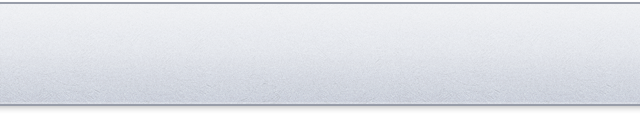
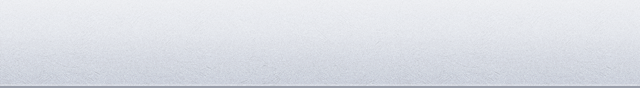
SHOT-2
* Fixed search bar art
* Fixed a bug when fetching the number of unviewed photos. Incorrect numbers would be seen while searching.

Changed region(s): [[0.0, 0.9091, 1.0, 1.0], [0.0, 0.0, 1.0, 0.0455]]

diff --git a/shotvibe/Controllers/SVAlbumListViewController.m b/shotvibe/Controllers/SVAlbumListViewController.m
@@ -374,6 +374,10 @@
     if (numberNew) {
         [cell.numberNotViewedIndicator setTitle:[NSString stringWithFormat:@"%@", numberNew] forState:UIControlStateNormal];
     }
+    else
+    {
+        [cell.numberNotViewedIndicator setTitle:[NSString stringWithFormat:@"%i", 0] forState:UIControlStateNormal];
+    }
     
     return cell;
 }
@@ -383,16 +387,18 @@
 {
     NSIndexPath *indexPath = [notification object];
     
-    Album *anAlbum = [self.fetchedResultsController objectAtIndexPath:indexPath];
-    
-    SVAlbumListViewCell *cell = (SVAlbumListViewCell *)[self.tableView cellForRowAtIndexPath:indexPath];
-    
-    NSInteger numberViewed = [SVBusinessDelegate numberOfViewedImagesInAlbum:anAlbum];
-    
-    NSInteger numberNew = anAlbum.photos.count - numberViewed;
-    
-    [self.albumPhotoInfo setObject:[NSNumber numberWithInteger:numberNew] forKey:indexPath];
-    [cell.numberNotViewedIndicator setTitle:[NSString stringWithFormat:@"%i", numberNew] forState:UIControlStateNormal];
+    if ([self.tableView.indexPathsForVisibleRows containsObject:indexPath]) {
+        Album *anAlbum = [self.fetchedResultsController objectAtIndexPath:indexPath];
+        
+        SVAlbumListViewCell *cell = (SVAlbumListViewCell *)[self.tableView cellForRowAtIndexPath:indexPath];
+        
+        NSInteger numberViewed = [SVBusinessDelegate numberOfViewedImagesInAlbum:anAlbum];
+        
+        NSInteger numberNew = anAlbum.photos.count - numberViewed;
+        
+        [self.albumPhotoInfo setObject:[NSNumber numberWithInteger:numberNew] forKey:indexPath];
+        [cell.numberNotViewedIndicator setTitle:[NSString stringWithFormat:@"%i", numberNew] forState:UIControlStateNormal];
+    }
 }
 
 
@@ -440,9 +446,11 @@
 - (void)showSearch
 {
     searchShowing = YES;
-
+    self.searchbar.hidden = NO;
+    
     [UIView animateWithDuration:0.15 animations:^{
-        self.viewContainer.frame = CGRectMake(0, 42, self.view.frame.size.width, self.view.frame.size.height -42);
+        self.searchbar.frame = CGRectMake(0, 0, self.searchbar.frame.size.width, self.searchbar.frame.size.height);
+        self.viewContainer.frame = CGRectMake(0, 40, self.view.frame.size.width, self.view.frame.size.height -40);
     } completion:^(BOOL finished) {
         [self.searchbar becomeFirstResponder];
     }];
@@ -454,9 +462,11 @@
     searchShowing = NO;
 
     [UIView animateWithDuration:0.15 animations:^{
-        self.viewContainer.frame = CGRectMake(0, 0, self.view.frame.size.width, self.view.frame.size.height);
+        self.searchbar.frame = CGRectMake(0, -44, self.searchbar.frame.size.width, self.searchbar.frame.size.height);
+        self.viewContainer.frame = CGRectMake(0, -4, self.view.frame.size.width, self.view.frame.size.height+4);
     } completion:^(BOOL finished) {
         [self.searchbar resignFirstResponder];
+        self.searchbar.hidden = YES;
     }];
     
     // Reset to all albums
@@ -473,6 +483,7 @@
     }
     
     [self.tableView reloadData];
+    [self fetchAlbumPhotoInfo];
 }
 
 
@@ -492,6 +503,7 @@
         RKLogError(@"There was an error loading the fetched result controller: %@", error);
     }
     [self.tableView reloadData];
+    [self fetchAlbumPhotoInfo];
 }
 
 

diff --git a/shotvibe/Delegates/SVInitializationWS.m b/shotvibe/Delegates/SVInitializationWS.m
@@ -132,7 +132,21 @@ static NSString * const kTestAuthToken = @"Token 8d437481bdf626a9e9cd6fa2236d113
     [[UIToolbar appearance] setBackgroundImage:[UIImage imageNamed:@"pictureDetailToolbarBg.png"] forToolbarPosition:UIToolbarPositionAny barMetrics:UIBarMetricsLandscapePhone];
     
     // Customize UISearchBar
-    [[UISearchBar appearance] setBackgroundImage:[UIImage imageNamed:@"searchBarBg.png"]];
+    {
+        UIImage *baseImage = [UIImage imageNamed:@"searchBarBg.png"];
+        UIEdgeInsets insets = UIEdgeInsetsMake(5, 20, 0, 20);
+        
+        UIImage *resizableImage = nil;
+        if (IS_IOS6_OR_GREATER) {
+            resizableImage = [baseImage resizableImageWithCapInsets:insets];
+        }
+        else
+        {
+            resizableImage = [baseImage resizableImageWithCapInsets:insets];
+        }
+        
+        [[UISearchBar appearance] setBackgroundImage:resizableImage];
+    }
 }
 
 
